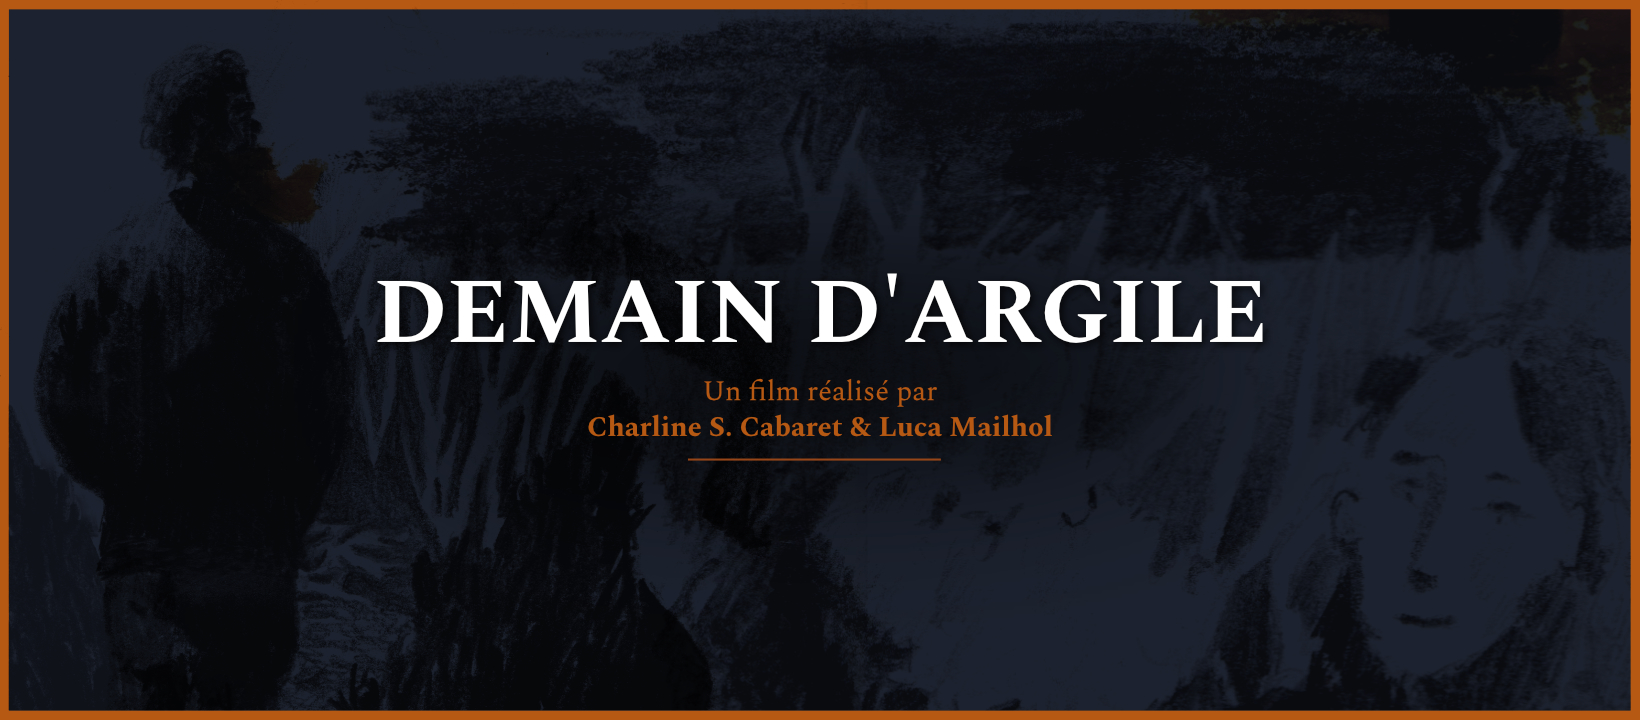
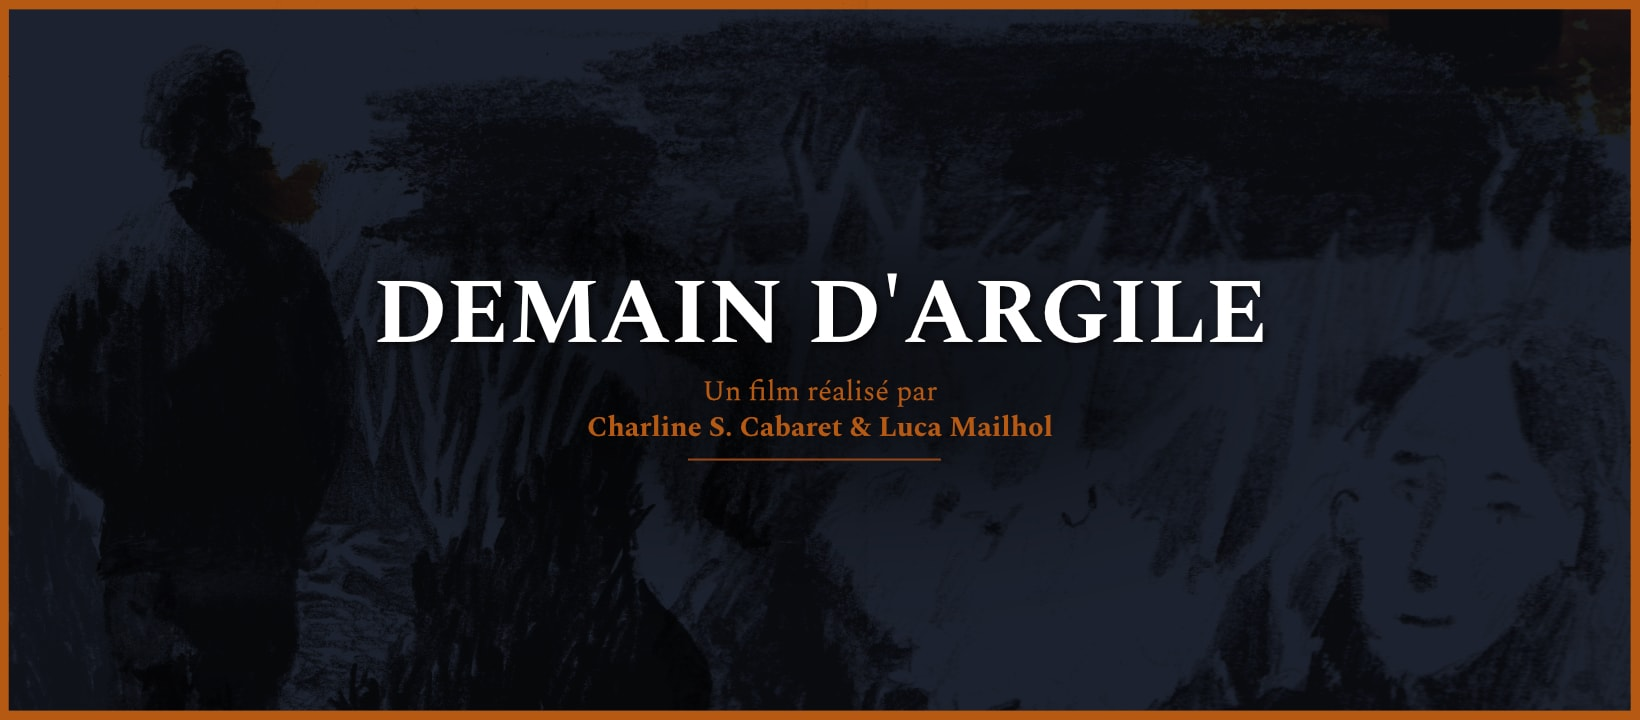
new article and english trad

Changed region(s): [[0.3732, 0.5806, 0.622, 0.6111], [0.4354, 0.5194, 0.5598, 0.55]]

diff --git a/static/css/style.css b/static/css/style.css
@@ -175,6 +175,11 @@ article header a:hover {color: #B65913;}
     margin-left: 0;
   }
 
+  article .content hr {
+    border-top: 1px solid #4C4C4C;
+    width: 40rem;
+  }
+
   article footer p {
     margin: 0;
   }

diff --git a/content/blog/enregistrement-de-la-bande-originale-avec-la-ruche.md b/content/blog/enregistrement-de-la-bande-originale-avec-la-ruche.md
@@ -1,0 +1,30 @@
+---
+title: "Enregistrement de la bande originale avec La Ruche"
+date: 2020-03-10T16:00:00+02:00
+tags: ["actu"]
+draft: false
+---
+
+> **Quelques nouvelles de la post-production de *Demain d'Argile*.**
+
+![Montage](/blog/enregistrement-de-la-bande-originale-avec-la-ruche/bo-01.jpg)
+
+### Nappes sonores electifiées...
+
+**Il y a quelques jours maintenant, nous avons enregistré la bande originale du film avec le groupe dijonnais *La Ruche*.** Toute la partie fable étant muette, nous avions depuis le début la volontée de l'accompagner de musique. Avec Charline, nous imaginions un travail de nappes sonores, inspiré par les classiques de l'ambient ou de la musique progressive. Un travail dans les cordes de nos amis de *La Ruche*, un groupe de drone dijonnais.
+
+Le groupe réunit Geoffrey à la guitare, Tom à la basse, Kevin aux claviers et percussions ainsi que Nicolas à la vielle à roue.
+
+Nous avons programmé une session d'enregistrement aux Ateliers du Cinéma à Beaune où nous avons enregistré une partie des compositions en direct sur les images du film. **Une belle expérience ponctuée de moments d'improvisation providentiels.**
+
+![Montage](/blog/enregistrement-de-la-bande-originale-avec-la-ruche/bo-02.jpg)
+
+**Nous sommes ravis du résultat et du travail fournit par le groupe.** Profitons en pour les remercier encore, ainsi que Sam qui s'est occupé de l'enregistrement et qui nous a livré des pistes sons de grande qualité.
+
+La journée a été filmée et fera l'objet d'une petite vidéo que nous publierons bientôt. En attendant, vous pouvez retrouver *La Ruche* sur [bandcamp](https://lengeance.bandcamp.com/album/live). Et si vous ne connaissez pas encore *l'Engeance*, leur association... [Suivez-les](https://www.facebook.com/LEngeance/) !
+
+---
+
+***[Bonus]*** Pour les amateurs, un petit bout de liste de musiques qui faisaient parti des inspirations musicales (non partagées avec le groupe, par ailleurs). Il n'y a pas que de l'ambient mais ça donne une couleur.
+
+[Kleiner Krieger - *Popol Vuh*](http://www.youtube.com/watch?v=yWzvQli1z4g) / [Bruder des Schattens - *Popol Vuh*](https://www.youtube.com/watch?v=OLiBkEhs2QE) / [Jail-House Frog - *Amon Düül II*](https://www.youtube.com/watch?v=pvamU4v1rjk) / [In the Fog I - *Tim Hecker*](https://www.youtube.com/watch?v=ShW8YyueC1s) / [The Heavenly Music Corporation I - *Robert Fripp et Brian Eno*](https://www.youtube.com/watch?v=ZwHH7XECJLg) / [Strength of Strings - *Gene Clark*](https://www.youtube.com/watch?v=dfx4vefHdKs) / [Punkrockaren - *Träd Gräs & Stenar*](https://www.youtube.com/watch?v=Qp6ldaGVjEY) / [Smoke and Mirrors - *Kikagaru Moyo*](https://www.youtube.com/watch?v=_rIBXu6jnD0) / [Arcadian Flowers - *Trummor & Orgel*](https://www.youtube.com/watch?v=gIOj9RbBvqo)...

diff --git a/content/blog/enregistrement-de-la-bande-originale-avec-la-ruche.en.md b/content/blog/enregistrement-de-la-bande-originale-avec-la-ruche.en.md
@@ -1,0 +1,30 @@
+---
+title: "Recording the original soundtrack with La Ruche"
+date: 2020-03-10T16:00:00+02:00
+tags: ["actu"]
+draft: false
+---
+
+> **Some news from the post-production of *Words of Clay*.**
+
+![Montage](/blog/enregistrement-de-la-bande-originale-avec-la-ruche/bo-01.jpg)
+
+### Electified layers-of-sound...
+
+**A few days ago, we recorded the soundtrack of the film with the band *La Ruche*.** The whole fable-part being silent, we had from the beginning the desire to accompany it with music. With Charline, we imagined a work of sound layers, inspired by the classics of ambient or progressive music. A work up the alley of our friends from *La Ruche*, a drone band from Dijon.
+
+The group brings together Geoffrey on guitar, Tom on bass, Kevin on keyboards and percussion and Nicolas on hurdy-gurdy.
+
+We scheduled a recording session at the Ateliers du Cinéma in Beaune where we recorded some of the compositions live on the film footage. **A beautiful experience punctuated with providential moments of improvisation.**
+
+![Montage](/blog/enregistrement-de-la-bande-originale-avec-la-ruche/bo-02.jpg)
+
+**We are delighted with the result and the work done by the group**, and we would like to take this opportunity to thank them again, as well as Sam who took care of the recording and who delivered high quality sound tracks.
+
+The day was filmed and will be the subject of a short video that we will publish soon. In the meantime, you can find *La Ruche* on [bandcamp](https://lengeance.bandcamp.com/album/live). And if you don't know their association, *L'Engeance*... [Follow them](https://www.facebook.com/LEngeance/)!
+
+---
+
+***[Bonus]*** For amateurs, a little list of tunes that were part of the musical inspirations (not shared with the band, by the way). It's not only ambient but it gives a color.
+
+[Kleiner Krieger - *Popol Vuh*](http://www.youtube.com/watch?v=yWzvQli1z4g) / [Bruder des Schattens - *Popol Vuh*](https://www.youtube.com/watch?v=OLiBkEhs2QE) / [Jail-House Frog - *Amon Düül II*](https://www.youtube.com/watch?v=pvamU4v1rjk) / [In the Fog I - *Tim Hecker*](https://www.youtube.com/watch?v=ShW8YyueC1s) / [The Heavenly Music Corporation I - *Robert Fripp et Brian Eno*](https://www.youtube.com/watch?v=ZwHH7XECJLg) / [Strength of Strings - *Gene Clark*](https://www.youtube.com/watch?v=dfx4vefHdKs) / [Punkrockaren - *Träd Gräs & Stenar*](https://www.youtube.com/watch?v=Qp6ldaGVjEY) / [Smoke and Mirrors - *Kikagaru Moyo*](https://www.youtube.com/watch?v=_rIBXu6jnD0) / [Arcadian Flowers - *Trummor & Orgel*](https://www.youtube.com/watch?v=gIOj9RbBvqo)...

diff --git a/content/blog/fin-de-tournage-pour-demain-dargile.en.md b/content/blog/fin-de-tournage-pour-demain-dargile.en.md
@@ -1,0 +1,27 @@
+---
+title: "End of shooting for Words of Clay"
+date: 2019-12-07T16:00:00+02:00
+tags: ["actu"]
+draft: false
+---
+
+> **End of shooting for *Words of Clay*, the project we've been working on with Charline for almost a year now.**
+
+![Charline et Luca](/blog/fin-de-tournage-pour-demain-dargile/fin-de-tournage-01.jpg)
+
+### Looking back over the past weeks
+
+**Since one part of the film is set in a fable universe and the other in reality, the film was done in two parts over a three-week period.** We decided to separate these moments to treat them as two separate shoots. This allowed us to have a few extra days of preparation and crew rotation before going into the reality.
+
+![Charline et Luca](/blog/fin-de-tournage-pour-demain-dargile/fin-de-tournage-02.JPG)
+
+After some time of set design preparation and three days of installation in the studio, we started filming from November 8th to 11th. The moment when almost a year's worth of writing, ideas and questions suddenly became a reality... We followed this up with several days of preparation that led us to November 18, the first day of the reality-part shooting. It ended on November 22nd with the recording of the voice over of our lead actress. Finally, we recorded the last images of the film last Thursday. Back to the studio, in teams of three this time.
+
+### And now
+
+**What comes out of all this is a huge thank you to everyone who made this project possible.**
+The actors, the teams, our partners, the various supporters, the Ulule contributors... Many people participated in *Words of Clay* at many different levels. We will soon have the opportunity to publish the first credits.
+
+**The editing station is now almost operational and the post-production phase is about to begin.** The film is scheduled for release in March 2020. We have set up this site to share the progress of the project as we go along. In addition, we will eventually share a few annotations, resources, technical information... So don't hesitate to come back from time to time! To start, you can access some set photographs made by Thai-Binh Phan-Van.
+
+See you soon.

diff --git a/content/images/_index.en.md b/content/images/_index.en.md
@@ -6,9 +6,9 @@ title: Images
 
 ## Behind the scene
 
-> [Thai-Binh Phan-Van](https://thaibinhphanvan.com/Photographies/Argile), a Dijon based photographer was with us during the reality-part of the shooting.  
-During the fable part, some photographies (the colored ones) was taken by Marion Boisard.  
-Here's a small selection of great images, thanks to these photographers.
+> [Thai-Binh Phan-Van](https://thaibinhphanvan.com/Photographies/Argile), a Dijon based photographer accompanied us during the reality-part of the shooting.  
+For the fable, the colour photographs are by Marion Boisard, those in b&w by Manu Mathias.
+Here is a small selection of these beautiful pictures and a big thank you to them.
 
 ### Reality stills
 

diff --git a/content/_index.en.md b/content/_index.en.md
@@ -2,8 +2,13 @@
 title: Home
 ---
 
-![Charline et Luca](/img/home.jpg)
+![Charline et Luca](/img/home.en.jpg)
 
 ### Synopsis
 
-> In english please.
+> **Jeanne, a poet, loses one of her stories while visiting a museum.**  
+The story depicts, in the style of a fable, the complexity of her life, her relationship with man and often the violence that comes with it.  
+**This strange letter ends up, by a coincidence, in the hands of Anton, an art student quite disturbed by this discovery.**
+
+The movie follows two axes in which the sequences are intertwined:  
+**a real dimension and an imaginary one containing passages from the fable written by Jeanne.**
